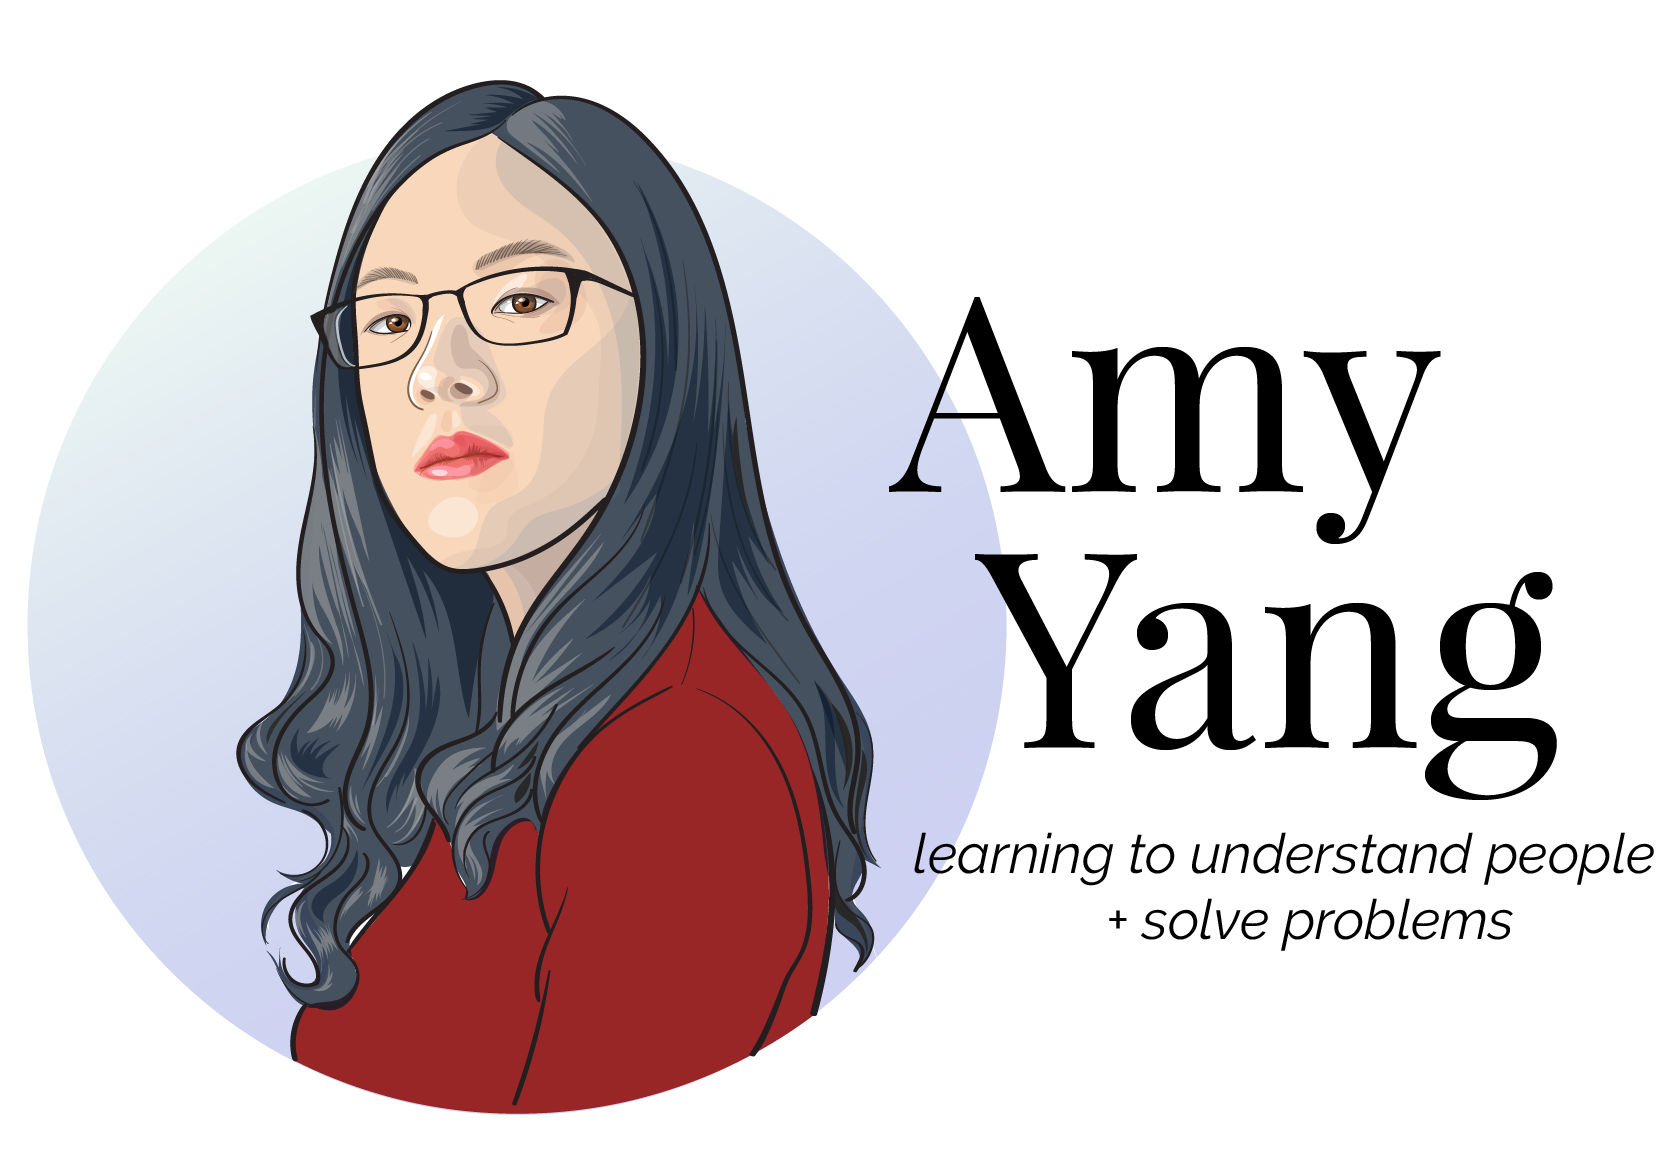
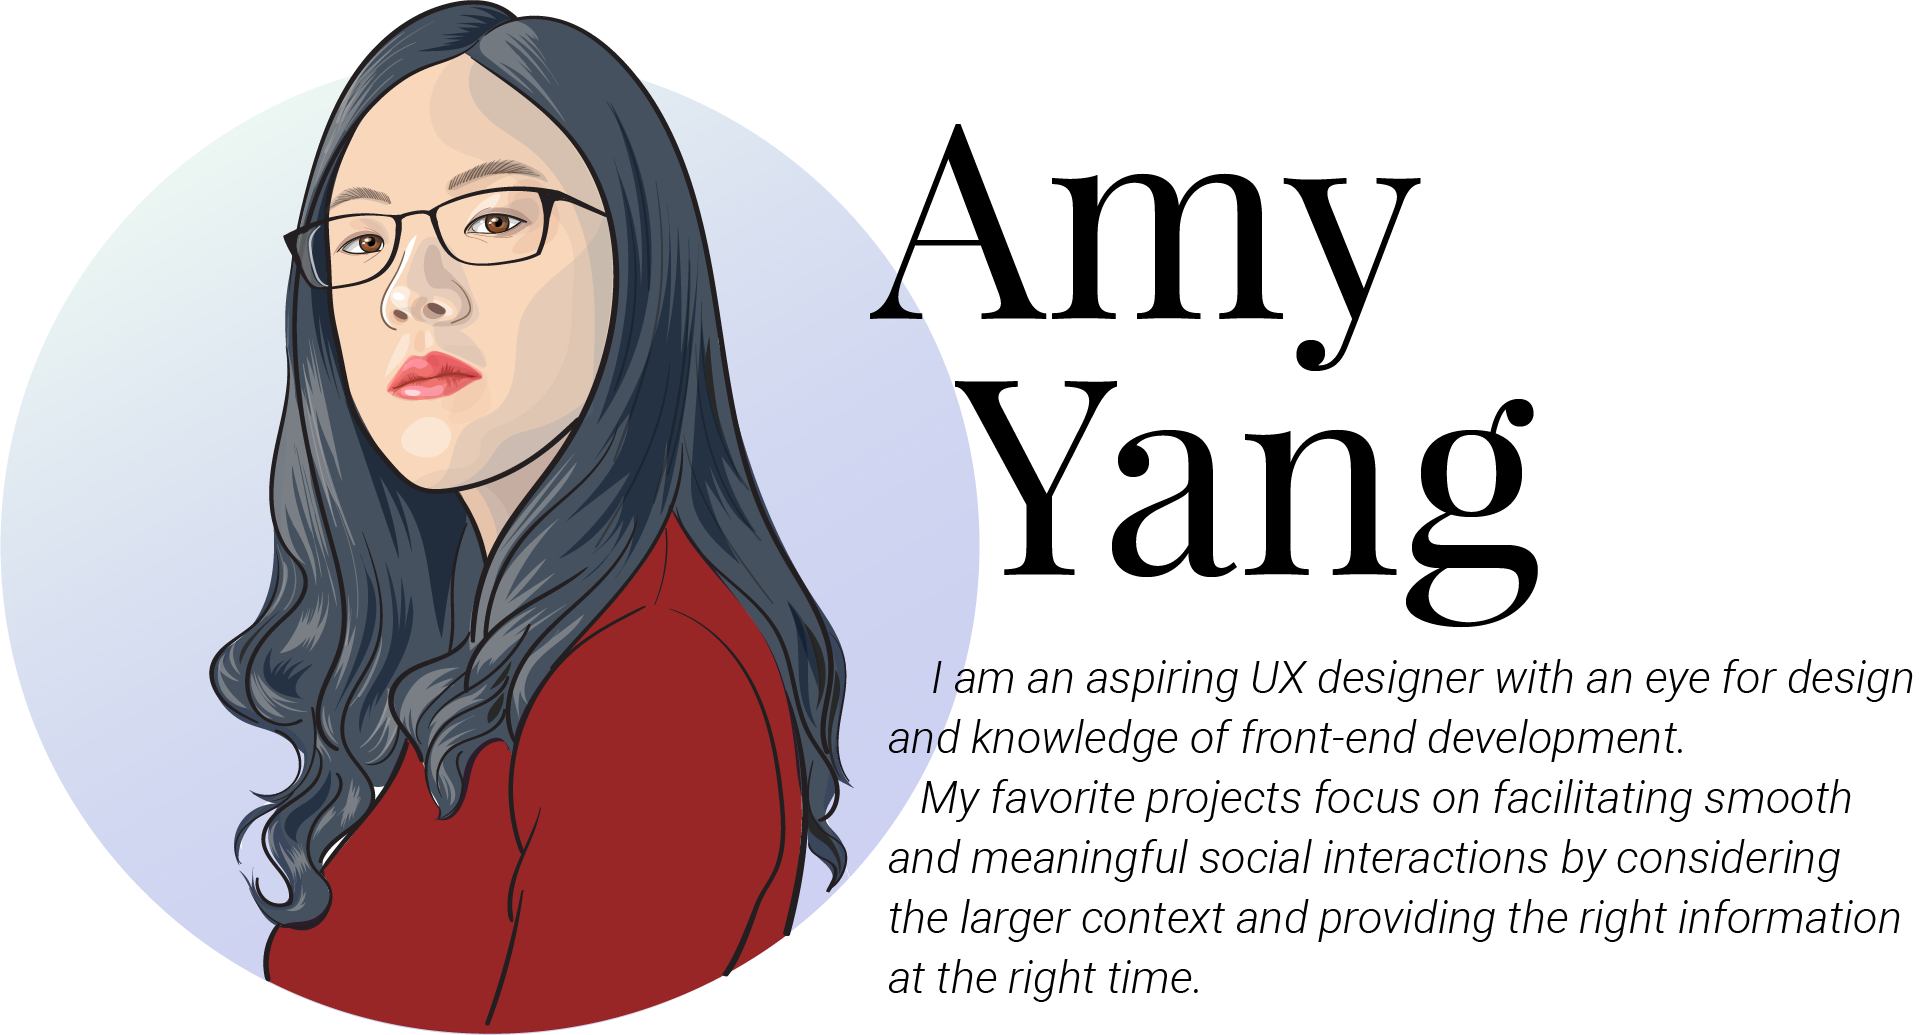
Updated header image to contain blurb

diff --git a/index.html b/index.html
@@ -53,8 +53,13 @@
     <div class="container panel" data-color="white">
         <div class="spacer"></div>
         <div class="row">
-            <div class="col-lg-9 offset-lg-1">
-                <img class="img-fluid" style="padding: 5vw 0px 4vw 0px;" src="art/portrait.png" alt="Amy Yang: learning to understand people and solve problems">
+            <div class="col-lg-10 offset-lg-1">
+                <img class="img-fluid" id="portrait-desktop" style="padding: 5vw 0px 4vw 20px;" src="art/portrait.png" alt="Amy Yang: I am an aspiring UX designer with an eye for design and knowledge of front-end development. My projects tend to focus on facilitating smooth and meaningful social interactions by considering the larger context and providing the right information and tools at the best time. ">
+                <img class="img-fluid" id="portrait-mobile" src="art/portrait-mobile.png" alt="Amy Yang">
+                <div id="intro-mobile">
+                    <p> I am an aspiring UX designer with an eye for design and knowledge of front-end development.</p>
+                    <p>My favorite projects focus on facilitating smooth and meaningful social interactions by considering the larger context and providing the right information and tools at the best time.</p>
+                </div>
             </div>
         </div>
     </div>
@@ -92,18 +97,6 @@
             </div>
         </div> 
 
-        <div class="row design-block">
-            <div class="col-md-7 design-description">
-                <h3><a class="red" href="https://medium.com/@puffinpoof/re-designing-the-multi-list-picker-376d4e44c012" target="_blank">All Campus Project?</a></h3>
-                <p class="white">Revamping a design component in accordance with new UI styles and ensuring that it works across contexts.</p>
-                <p class="white">Focus: <br>Design system<br>Interaction design<br>Enterprise software</p>
-            </div>
-            <div class="col-md-5">
-                <a href="https://medium.com/@puffinpoof/re-designing-the-multi-list-picker-376d4e44c012" target="_blank">
-                        <img src="des/mlp.png" alt="Redesigning the Multi List Picker" class="icon">
-                </a>
-            </div>
-        </div> 
 
         <div class="row title-wrapper">
             <div class="col-10">
@@ -157,7 +150,7 @@
 
         <div class="row title-wrapper">
             <div class="col-10">
-                <h1 class="light">Writing</h1>
+                <h1 class="light">Creative Writing</h1>
             </div>
         </div> 
         <div class="row gallery">
@@ -191,7 +184,7 @@
                 <div class="col-md-6" id="about-text">
                     <p>“What do you want to do when you grow up?” was a question I had trouble answering. In many people’s eyes, my love of art and literature contradicted my knack for math and computer science. </p>
                     <p>In my first software engineering internship last summer, I happened to sit in on a UX design working session, and I found a place where these disparate parts of my life came together: the visual thinking acquired from years of designing graphics and making art, the empathy accumulated from reading broadly, and the front-end technical skills that help me understand the implementation of UI elements. </p>
-                    <p>I care deeply about making software intuitive, accessible, and sometimes delightful to use. I am excited to grow as a designer because good design brings tremendous value to a product, and I want to be part of that.</p>
+                    <p>Since deciding to pursue the field of UX, I have grown through internships and personal projects that expanded my understanding of the nuances of product design problems. After I graduate, I hope to keep growing in a work environment in which I tackle interesting problems in a collaborative environment.</p>
                 </div>
             </div>
         </div>

diff --git a/style.css b/style.css
@@ -159,15 +159,45 @@ display: block!important;
 
 /* desktop only */
 @media screen and (min-width: 768px){
-
+    #portrait-mobile, #intro-mobile{
+        display: none;
+    }
 }
 
 /* mobile only */
 @media screen and (max-width: 768px){
+    #portrait-desktop{
+        display: none;
+    }
 
+    #portrait-mobile{
+        padding-top: 50px;
+        padding-bottom: 20px;
+    }
+
+    .title-wrapper{
+        padding-top: 30px;
+    }
+
+    .design-block{
+        padding: 20px 5px;
+    }
+
+    .icon{
+        margin: 10px 0;
+    }
+
+    #bootstrap-overrides h1{
+        font-size: 1.9rem;
+        margin: 0;
+    }
+
+    #bootstrap-overrides h3{
+        font-size: 1.4rem;
+    }
 }
 
-/* adjustments in between */
+/* larger screen sizes */
 @media screen and (min-width: 1200px){
     #header-name{
         padding-top: 40px;
